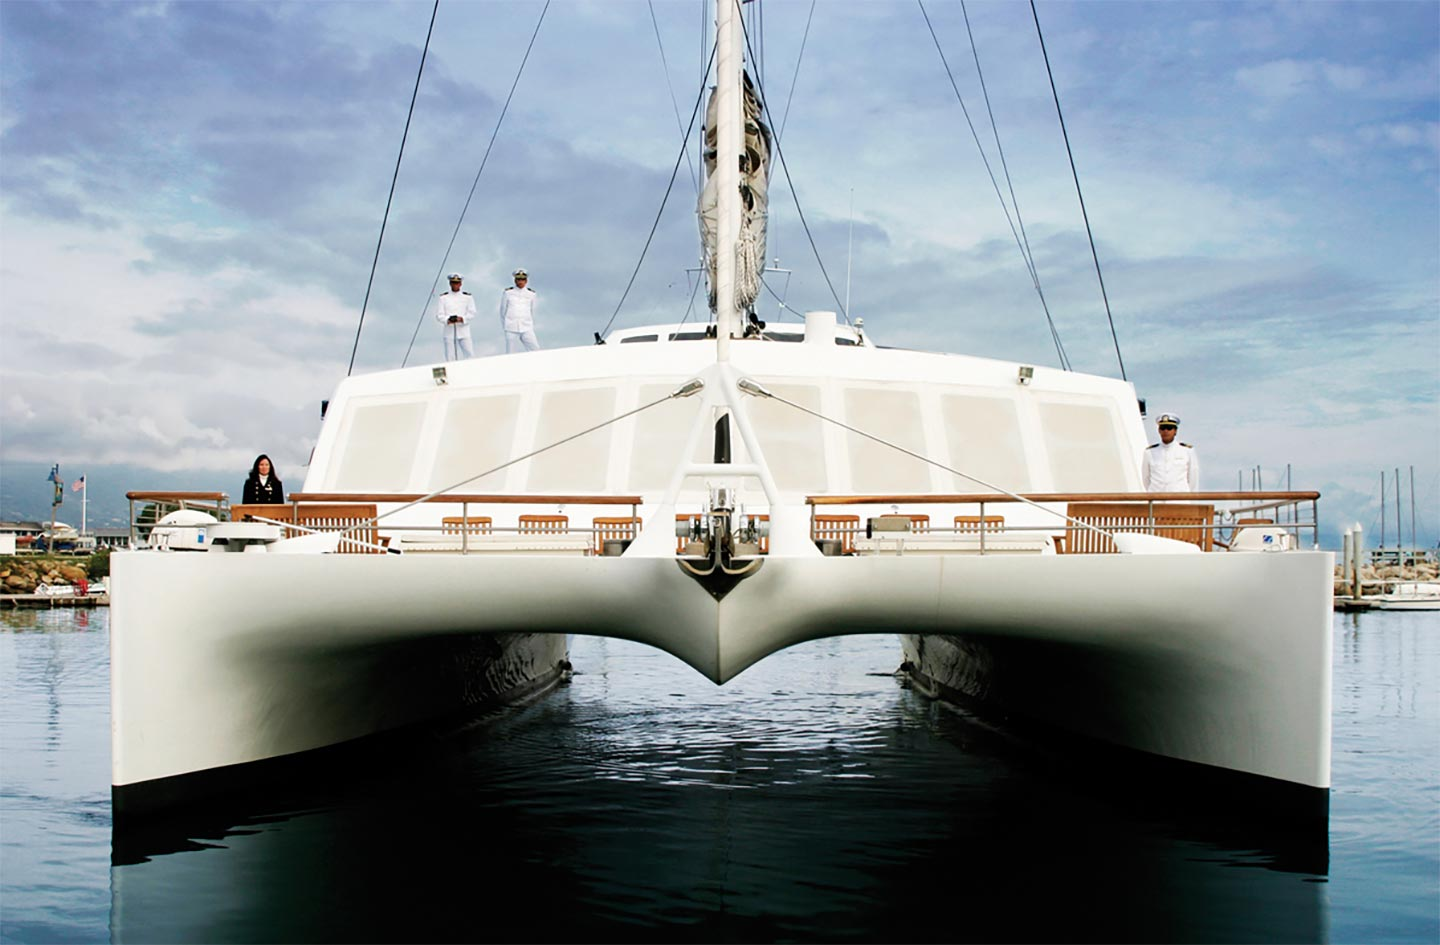
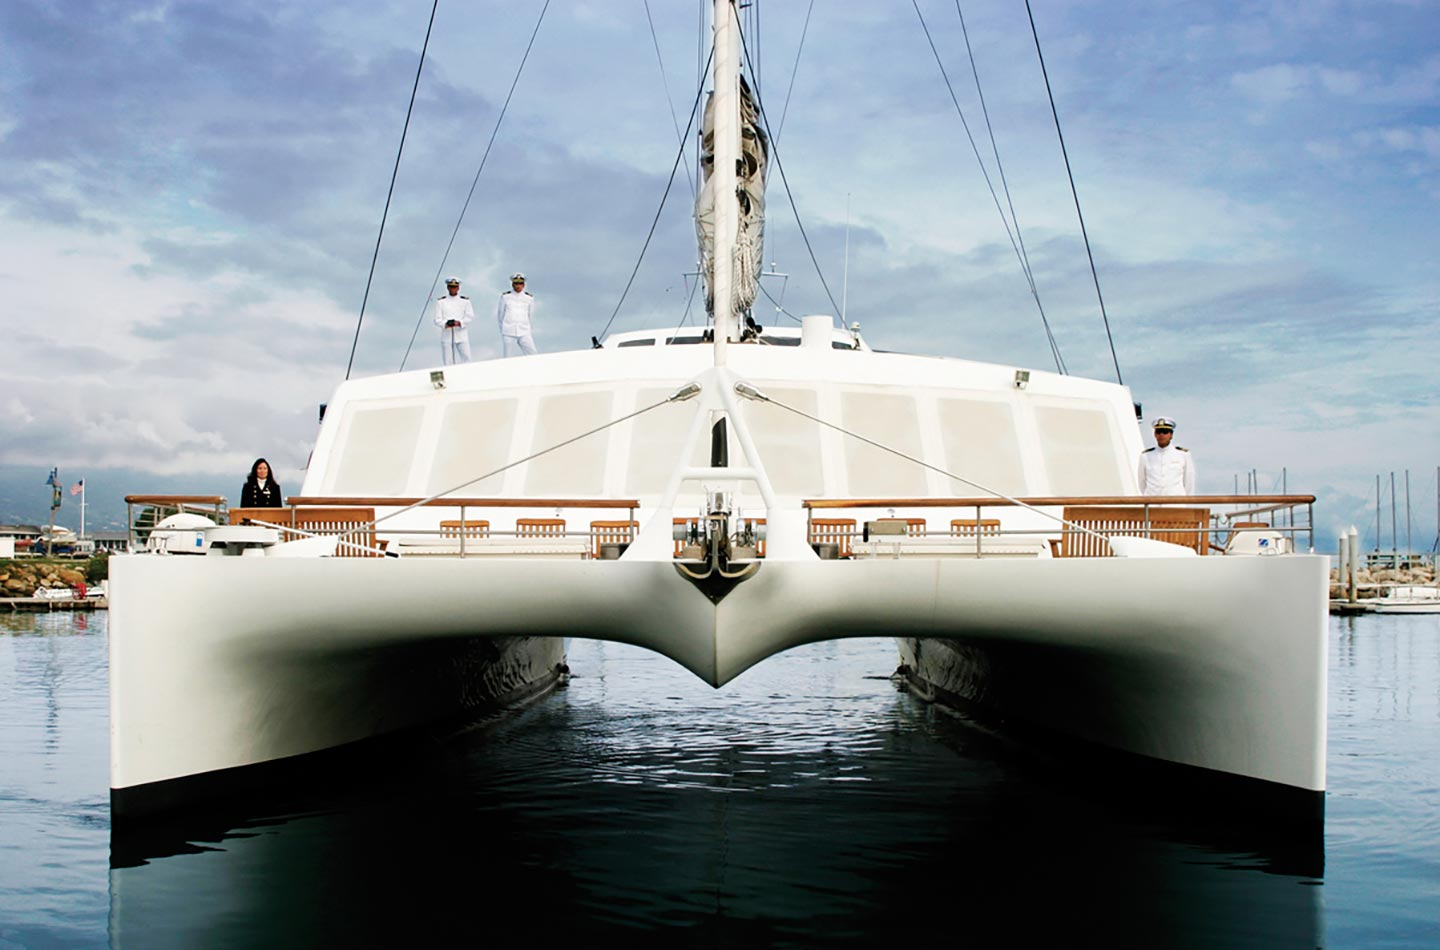
Added initial Contact page + directions & gallery tweaks

diff --git a/contact.html b/contact.html
@@ -23,9 +23,6 @@
       <script src="https://oss.maxcdn.com/respond/1.4.2/respond.min.js"></script>
     <![endif]-->
     
-    <!-- Custom styles and overrides for this site -->
-    <link href="css/ccc_carousel.css" rel="stylesheet">
-    
     <!-- web fonts -->
     <link href='https://fonts.googleapis.com/css?family=Montserrat:400' rel='stylesheet' type='text/css'>
       <!--core site styles-->
@@ -36,7 +33,6 @@
   <body>
     <div class="navbar-wrapper">
       <div class="container">
-
         <nav class="navbar navbar-default navbar-fixed-top">
           <div class="container">
             <div class="navbar-header ccc-font">
@@ -50,92 +46,45 @@
             </div>
             <div id="navbar" class="navbar-collapse collapse navbar-right">
               <ul class="nav navbar-nav">
-                <li class="active"><a href="index.html">Home</a></li>
+                <li><a href="index.html">Home</a></li>
                 <li><a href="vtours.html">Tours</a></li> 
                 <li><a href="gallery.html">Gallery</a></li>
                 <li><a href="about.html">About</a></li>
-                <li><a href="contact.html">Contact</a></li>
+                <li  class="active"><a href="#contact">Contact</a></li>
                 <li><a href="directions.html">Directions</a></li> 
               </ul>
             </div>
           </div>
         </nav>
-
       </div>
     </div>
-
-
-    <!-- Carousel ================================================== -->
-<div id="myCarousel" class="carousel slide carousel-fade auto" data-ride="carousel">
-    <!-- Indicators -->
-      <ol class="carousel-indicators">
-        <li data-target="#myCarousel" data-slide-to="0" class="active"></li>
-        <li data-target="#myCarousel" data-slide-to="1"></li>
-        <li data-target="#myCarousel" data-slide-to="2"></li>
-        <li data-target="#myCarousel" data-slide-to="3"></li>
-        <li data-target="#myCarousel" data-slide-to="4"></li>
-        <li data-target="#myCarousel" data-slide-to="5"></li>
-        <li data-target="#myCarousel" data-slide-to="6"></li> 
-      </ol>
-  <!-- Carousel items -->
-  <div class="carousel-inner">
-     <div class="item active ad1">
-        <!--<div class="carousel-caption">
-           <h4>First Thumbnail label</h4>
-           <p>Cras justo odio, dapibus ac facilisis in, egestas eget quam. Donec id elit non mi porta gravida at eget metus. Nullam id dolor id nibh ultricies vehicula ut id elit.</p>
-        </div>-->
-     </div>
-     <div class="item ad2"></div>
-     <div class="item ad3"></div>
-     <div class="item ad4"></div>
-     <div class="item ad5"></div>
-     <div class="item ad6"></div>
-     <div class="item ad7"></div> 
-  </div>
-
-  <!-- Carousel nav -->
-    <a class="left carousel-control" href="#myCarousel" role="button" data-slide="prev">
-        <span class="glyphicon glyphicon-chevron-left" aria-hidden="true"></span>
-        <span class="sr-only">Previous</span>
-    </a>
-    <a class="right carousel-control" href="#myCarousel" role="button" data-slide="next">
-        <span class="glyphicon glyphicon-chevron-right" aria-hidden="true"></span>
-        <span class="sr-only">Next</span>
-    </a>
-</div><!-- /.carousel -->
-    
-<div class="container marketing">
-    <!--Marketing: event types-->
-      <div class="row">
-        <div class="col-lg-4 special1">
-          <h3>Special Occasions</h3>
-        </div><!-- /.col-lg-4 -->
-        <div class="col-lg-4 charters1">
-          <h3>Corporate Charters</h3>
-        </div><!-- /.col-lg-4 -->
-        <div class="col-lg-4 prestigious1">
-          <h3>Prestigious Events</h3>
-        </div><!-- /.col-lg-4 -->
-        <div class="col-md-4 col-md-offset-4">
-            <button type="button" class="btn">Contact Us</button>
-         </div>
-      </div><!-- /.row -->
-      <!-- FOOTER -->
-    <hr class="featurette-divider">
-      <footer>
-        <p class="pull-right"><a href="#">Back to top</a></p>
-        <p>&copy; 2015 Ocean Channel Adventures, Inc. <!--&middot; <a href="#">Privacy</a> &middot; <a href="#">Terms</a>--></p>
-      </footer>
-</div><!-- /.container -->
-      
+    <!-- contact -->
+    <div id="contact">
+        <div class="container" id="c-content">
+        <!--Marketing: event types-->
+            <div class="row">
+                <div class="col-sm-4 charteragent">
+                    <h3>Charter Agent:<br>(805) 455-4228</h3>
+                </div><!-- /.col-lg-4 -->
+                <div class="col-sm-4 office">
+                    <h3>Office:<br>(805) 898-1015</h3>
+                </div><!-- /.col-lg-4 -->
+                <div class="col-sm-4 emailus" onclick="sendEmail();">
+                    <h3>Email Us</h3>
+                </div><!-- /.col-lg-4 -->
+            </div><!-- /.row -->
+            <footer class="c-footer">
+                <p class="pull-right"><a href="#">Back to top</a></p>
+                <p>&copy; 2015 Ocean Channel Adventures, Inc. </p>
+            </footer>
+        </div>      
+    </div>
     <!-- Bootstrap core JavaScript
     ================================================== -->
     <script src="https://ajax.googleapis.com/ajax/libs/jquery/1.11.3/jquery.min.js"></script>
     <!-- Latest compiled and minified JavaScript -->
     <script src="https://maxcdn.bootstrapcdn.com/bootstrap/3.3.6/js/bootstrap.min.js" integrity="sha384-0mSbJDEHialfmuBBQP6A4Qrprq5OVfW37PRR3j5ELqxss1yVqOtnepnHVP9aJ7xS" crossorigin="anonymous"></script>
       
-    <!-- custom scripts for Channel Cat Charters -->
-    <script src="js/jquery.bootstrap-responsive-tabs.min.js"></script>
     
     <script src="js/ccc.js"></script>
   </body>

diff --git a/css/ccc.css b/css/ccc.css
@@ -35,6 +35,7 @@ blockquote, q {
 /* remember to define focus styles! */
 :focus {
 	outline: 0;
+    border-bottom: 1px solid skyblue;
 }
 
 .offset-top
@@ -215,6 +216,20 @@ a.accordion-link
 {
     margin: 30px 0 0 0;
 }
+/* contact page */
+#contact
+{
+    background:url(../images/crew.jpg) no-repeat center center; 
+    background-size: cover;
+    height: 100vh;
+    border: 1px solid #DDD;
+    transition: all 1.0s ease;
+    position: relative;
+}
+#c-content
+{
+    margin-top: 80px;
+}
 .ccc-map1
 {
     background:url(../images/ccc_map1.jpg) no-repeat center center; 
@@ -249,9 +264,37 @@ a.accordion-link
     border: 1px solid #DDD;
     transition: all 1.0s ease;
 }
+.charteragent
+{
+    background:url(../images/charter1.JPG) no-repeat center center; 
+    background-size: cover;
+    height: 320px;
+    border: 1px solid #DDD;
+    transition: all 1.0s ease;
+}
+.office
+{
+    background:url(../images/gallery/thumbs/front_on.jpg) no-repeat center center; 
+    background-size: cover;
+    height: 320px;
+    border: 1px solid #DDD;
+    transition: all 1.0s ease;
+}
+.emailus
+{
+    background:url(../images/pilotsd.jpg) no-repeat center center; 
+    background-size: cover;
+    height: 320px;
+    border: 1px solid #DDD;
+    transition: all 1.0s ease;
+    cursor: pointer;
+}
 .special1 h3,
 .charters1 h3,
-.prestigious1 h3
+.prestigious1 h3,
+.charteragent h3,
+.office h3,
+.emailus h3
 {
     color: #FFF;
     font-size: 3rem;
@@ -261,9 +304,17 @@ a.accordion-link
     bottom: 0;
     right: 20px;
     padding: 0 20px 0 20px;
-    background-color: rgba(0,0,0,0.25);
+    background-color: rgba(0,0,0,0.5);
     /*border-radius: 10px;*/
     font-family: 'Montserrat', sans-serif;
+}
+.c-footer
+{
+    position: absolute;
+    bottom: 10px;
+    left: 50%;
+    width: 960px;
+    margin-left: -480px;
 }
 /* About us banner img */
 #about
@@ -283,11 +334,16 @@ a.accordion-link
     bottom: 2%;
 }
 #about h1,
-#directions h1
+#directions h1,
+#contact h1
 {
     color: #FFF;
     font-size: 10rem;
     line-height: 8rem;
+}
+#contact h1
+{
+    color: #666;
 }
 #about p
 {
@@ -393,6 +449,10 @@ p.cattail,
     {
         text-align: center;
         transition: all 0.5s ease;
+    }
+    .c-footer
+    {
+        display: none;
     }
 }
 

diff --git a/gallery.html b/gallery.html
@@ -45,7 +45,7 @@
                 <li><a href="vtours.html">Tours</a></li> 
                 <li class="active"><a href="gallery.html">Gallery</a></li>
                 <li><a href="about.html">About</a></li>
-                <li><a href="#contact">Contact</a></li>
+                <li><a href="contact.html">Contact</a></li>
                 <li><a href="directions.html">Directions</a></li> 
               </ul>
             </div>
@@ -164,7 +164,7 @@
                     <img src="images/gallery/thumbs/IMG_1886.jpg" class="img-responsive" />
                 </li>
                 <li class="gridder-list" data-griddercontent="#gridder-content-36">
-                    <img src="images/gallery/thumbs/46_people.jpg" class="img-responsive" />
+                    <img src="images/gallery/thumbs/IMG_9622.jpg" class="img-responsive" />
                 </li>
             </ul>
             <!--expanded images-->
@@ -416,7 +416,7 @@
             <div id="gridder-content-36" class="gridder-content">
                 <div class="row">
                     <div class="col-sm-12">
-                        <img src="images/gallery/46_people.jpg" class="img-responsive" />
+                        <img src="images/gallery/IMG_9622.jpg" class="img-responsive" />
                     </div>
                 </div>
             </div>

diff --git a/directions.html b/directions.html
@@ -54,7 +54,7 @@
                 <li><a href="vtours.html">Tours</a></li> 
                 <li><a href="gallery.html">Gallery</a></li>
                 <li><a href="about.html">About</a></li>
-                <li><a href="#contact">Contact</a></li>
+                <li><a href="contact.html">Contact</a></li>
                 <li class="active"><a href="directions.html">Directions</a></li> 
               </ul>
             </div>
@@ -146,7 +146,7 @@
       </div>
       <hr class="featurette-divider">
       <h1>Explore The Bay</h1>
-      <p class="lead">Use this interaction map to explore the harbor with Satellite images or Map view. Drag and drop the (orange) person icon in lower right corner of the map to see and interact with panoramic photographs guests have taken of Santa Barbara harbor.</p>
+      <p class="lead">Use this interactive map to explore the harbor with Satellite images or Map view. Drag and drop the (orange) person icon in lower right corner of the map to see and interact with panoramic photographs guests have taken of Santa Barbara harbor.</p>
       <div id="map-canvas"></div>
       <hr class="featurette-divider">
 

diff --git a/about.html b/about.html
@@ -51,7 +51,7 @@
                 <li><a href="vtours.html">Tours</a></li> 
                 <li><a href="gallery.html">Gallery</a></li>
                 <li class="active"><a href="about.html">About</a></li>
-                <li><a href="#contact">Contact</a></li>
+                <li><a href="contact.html">Contact</a></li>
                 <li><a href="directions.html">Directions</a></li> 
               </ul>
             </div>

diff --git a/vtours.html b/vtours.html
@@ -54,7 +54,7 @@
                 <li class="active"><a href="vtours.html">Tours</a></li> 
                 <li><a href="gallery.html">Gallery</a></li>
                 <li><a href="about.html">About</a></li>
-                <li><a href="#contact">Contact</a></li>
+                <li><a href="contact.html">Contact</a></li>
                 <li><a href="directions.html">Directions</a></li> 
               </ul>
             </div>

diff --git a/js/ccc.js b/js/ccc.js
@@ -6,3 +6,7 @@ $('.responsive-tabs').responsiveTabs({
 /* smooth scroll */
 
 
+function sendEmail() 
+{
+    window.location = "mailto:info@channelcatcharters.com";
+}
